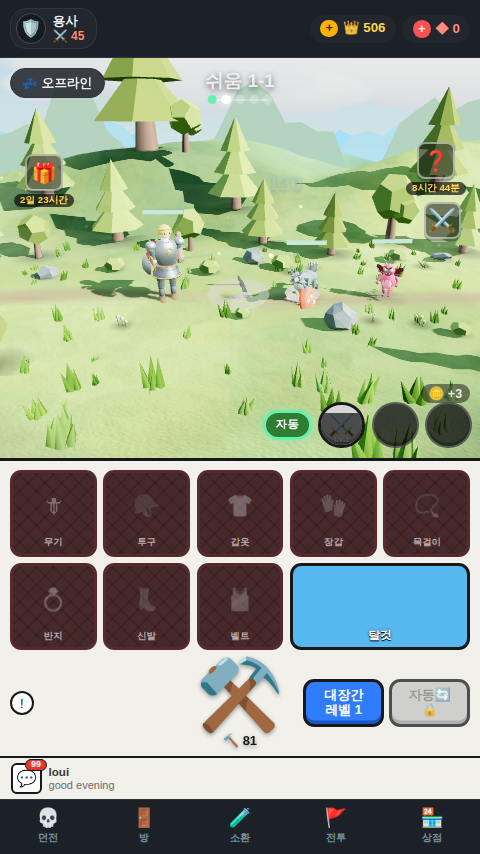
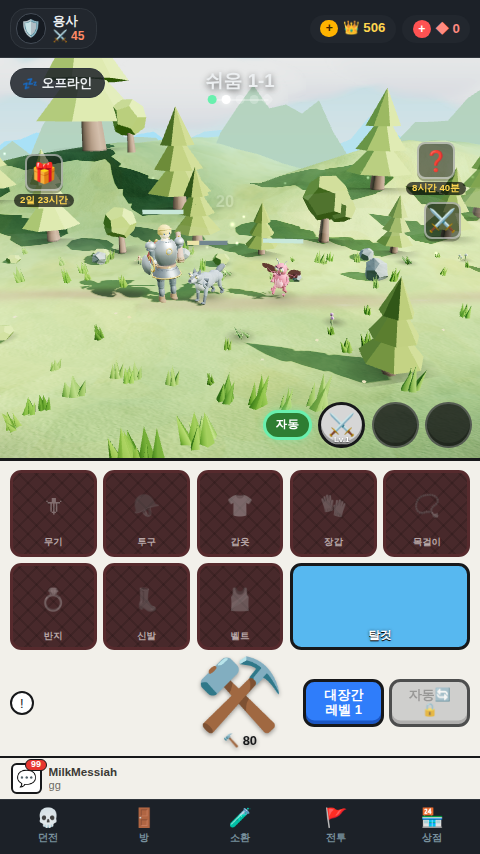
스킬 컷인 배너 축소(1.7→1.05rem)·상단 이동 — 화면 중앙 '워터마크' 오독 해소, 인게임 HUD 샷 갱신

diff --git a/web/css/style.css b/web/css/style.css
@@ -526,9 +526,9 @@ body {
 
 /* ---- 스킬 컷인 + 화면 플래시 ---- */
 #skill-cutin {
-    position: absolute; top: 26%; left: 50%; transform: translateX(-50%) scale(0);
-    font-size: 1.7rem; font-weight: 900; white-space: nowrap; z-index: 6;
-    text-shadow: 0 0 14px currentColor, 0 2px 6px rgba(0,0,0,.8);
+    position: absolute; top: 20%; left: 50%; transform: translateX(-50%) scale(0);
+    font-size: 1.05rem; font-weight: 800; letter-spacing: .04em; white-space: nowrap; z-index: 6; /* 1.7rem 중앙 배너는 '워터마크'로 오독 (비평가 6.8 HUD 지적) — 캐릭터 상단의 작은 콜아웃으로 */
+    text-shadow: 0 0 10px currentColor, 0 2px 5px rgba(0,0,0,.8);
     pointer-events: none; opacity: 0;
 }
 #skill-cutin.play { animation: cutin .8s ease-out forwards; }
